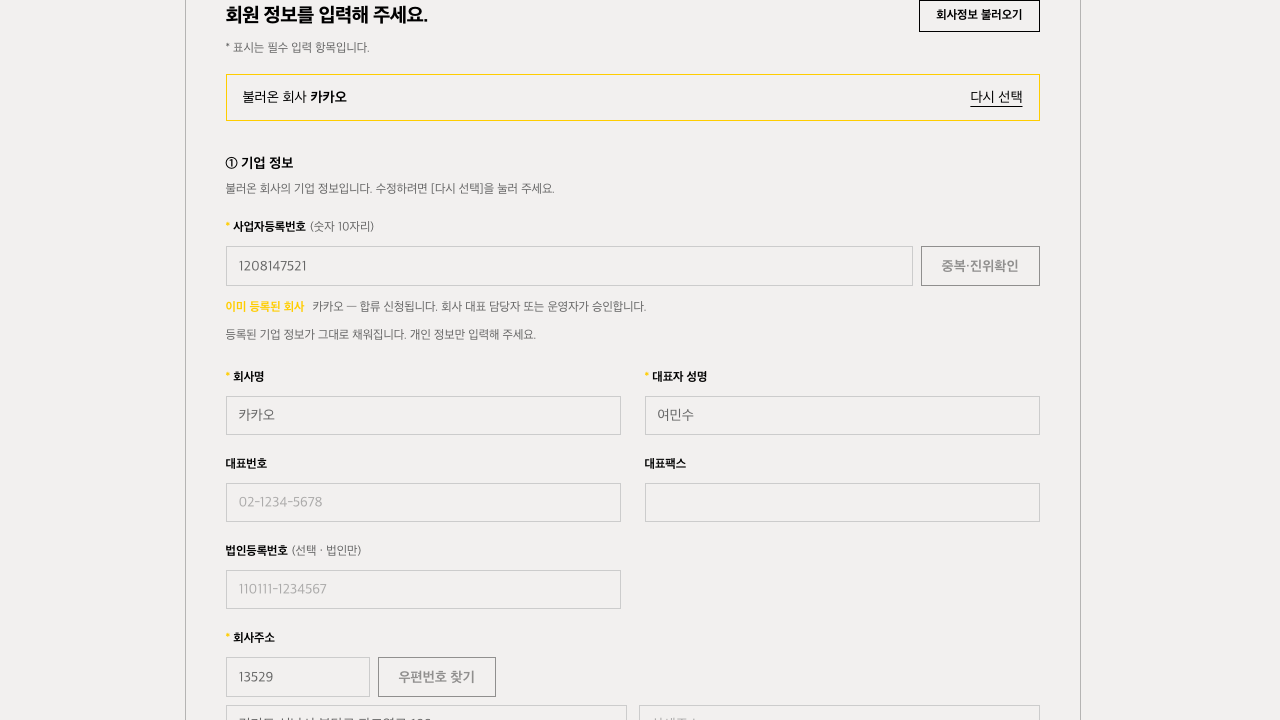
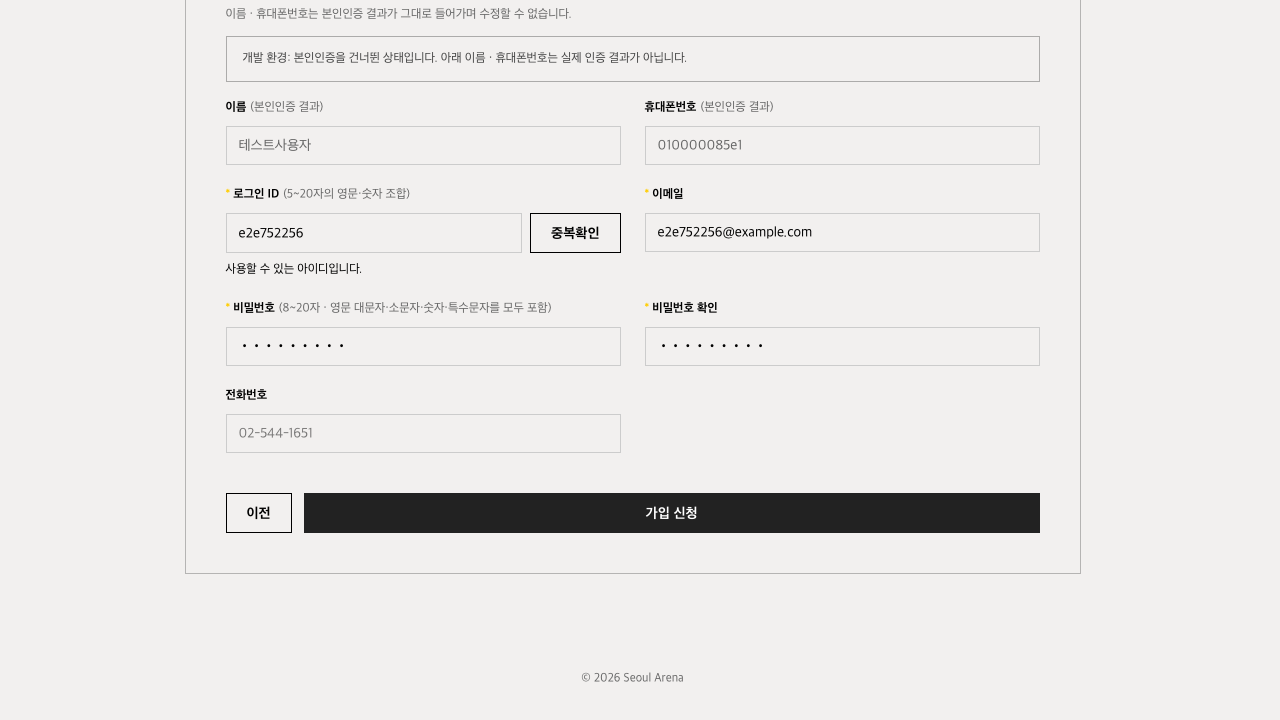
UI 점검을 재실행 가능한 스펙으로 남기고, 정리 스크립트의 구멍을 막는다
이번 점검에 쓴 임시 스크립트 셋을 e2e 아래 정식 스펙으로 옮겼다.

  layout.spec.mjs      뷰포트 3종 × 전 페이지 — 가로 넘침·터치 타깃·
                       한글 줄바꿈·콘솔 오류
  validation.spec.mjs  못 채운 칸이 있을 때 버튼이 잠기는 대신 이유를
                       알려주는지
  wizard.spec.mjs      대관 신청 위저드 전 단계 (접수 개시 플래그 필요)

세 스펙 모두 로그인을 한 번만 하고 세션을 재사용한다 — 뷰포트마다 새로
로그인하면 아이디당 5분 10회 레이트리밋에 걸려 뒷부분이 통째로 실패한다.

reset-dev.sh 가 users 를 참조하는 테이블을 손으로 적어 두고 있었는데,
inquiries·quotes·message_sends 가 빠져 있어 정리가 통째로 실패했다.
그런데도 "정리 완료"를 찍고 넘어가서, 남은 데이터 때문에 다음 실행이
엉뚱한 데서 깨졌다. 이제 카탈로그에서 외래키를 읽어 지운다 — 테이블이
새로 생겨도 여기서 다시 걸리지 않는다.

디자인 브랜치에서 넘어온 죽은 코드도 걷었다(HomeContentForm 의
uploadSingleImage 는 호출부가 없고, FaqAccordion 의 TagBadge 는 미사용).
다시 필요해지면 그쪽에서 되살아난다.

diff --git a/src/components/admin/HomeContentForm.tsx b/src/components/admin/HomeContentForm.tsx
@@ -28,7 +28,6 @@ export function HomeContentForm({ content: initial }: { content: HomeContent }) 
   const [content, setContent] = useState<HomeContent>(initial);
   const [saving, setSaving] = useState(false);
   const [uploading, setUploading] = useState(false);
-  const [imageUploading, setImageUploading] = useState<string | null>(null);
   const [message, setMessage] = useState<string | null>(null);
 
   function patch(p: Partial<HomeContent>) {
@@ -51,25 +50,6 @@ export function HomeContentForm({ content: initial }: { content: HomeContent }) 
     }
   }
 
-  async function uploadSingleImage(
-    e: React.ChangeEvent<HTMLInputElement>,
-    key: string,
-    onDone: (url: string) => void,
-  ) {
-    const file = e.target.files?.[0];
-    if (!file) return;
-    setImageUploading(key);
-    try {
-      const formData = new FormData();
-      formData.append("file", file);
-      const res = await fetch("/api/admin/notices/upload", { method: "POST", body: formData });
-      const data = await res.json();
-      if (res.ok) onDone(data.url);
-    } finally {
-      setImageUploading(null);
-      e.target.value = "";
-    }
-  }
 
   function updateStatement(i: number, patchS: Partial<HomeContent["narrativeStatements"][number]>) {
     patch({

diff --git a/src/components/FaqAccordion.tsx b/src/components/FaqAccordion.tsx
@@ -3,7 +3,6 @@
 import { useState } from "react";
 import type { Faq } from "@/lib/pricing/types";
 import { FAQ_TAGS } from "@/lib/content/faqSeed";
-import { TagBadge } from "@/components/TagBadge";
 
 /**
  * FAQ 아코디언 — 헤어라인 로우 + 샤프한 +/− 토글.
